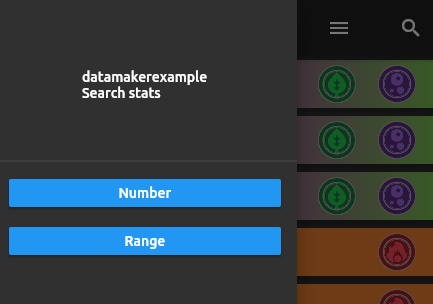
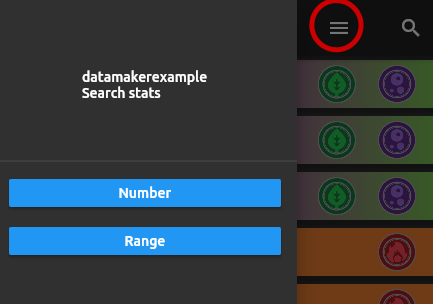
readme.md file version 1

Changed region(s): [[0.6905, 0.0, 0.8406, 0.1776]]

diff --git a/lib/src/gui/dataDetailView.dart b/lib/src/gui/dataDetailView.dart
@@ -267,7 +267,7 @@ class _DataDetailViewState extends State<DataDetailView> {
               border: TableBorder.all(color: Colors.white),
               children: _movesRows(pkm.tmMoves.map((e) => [e]).toList()),
             ),
-            Text("Bredding:"),
+            Text("Breeding:"),
             Table(
                 columnWidths: {
                   0: FlexColumnWidth(3),

diff --git a/README.md b/README.md
@@ -1,9 +1,108 @@
-# DataMaker
+#### DataMaker
 
 An app for get information from Pokemon fan games made in RPG Maker.
 
 ![Main view](/images/mainview.png)
-Format: ![Alt Text](url)
 
-## Getting Started
+### Getting Started
+## Create the game data
+To create a new file from a game there are two options:
+
+Open the game folder or open a file created by the app itself
+(firts and second buttons respectively).
+![buttons](/images/buttons.png)
+
+# Open a game folder
+Tap the first button (New from game folder).
+Select the folder that contains the game files 
+(the folder which containt the game.exe file).
+
+![Opengamefolder](/images/openfolder.png)
+
+# Open a file generated by the app (a .dmjson file)
+
+First you have to create that file selecting the option "copy" from the a 
+card generated by the first option.
+
+![Card](/images/card.png)
+
+And then the app will copy the .dmjson file that contains all the game data
+in a json format.
+
+![Copy](/images/copied.png)
+
+Then tap the second button (New from file) and select the .dmjson file
+![Openfilegame](/images/openfile.png)
+
+## See the information
+To open the data from a game just tap the card generated.
+
+![Data view](/images/dataview.png)
+
+And then tap a pokemon to see the data.
+
+# Data page
+![datadetail](/images/detailview.png)
+It contains the number, name, types, abilities, type charts, 
+stats, locations and other useful data.
+
+![data1](/images/datadetailview.png)
+
+![data2](/images/datadetailview2.png)
+
+If you want to know what an ability does just tap the text.
+
+![ability](/images/abilities.png)
+
+# Evolutions page
+
+To see the evolutions that the pokemon has tap the "Evols" button at the
+bottom of the window (You can also tap an evolution to go to its data).
+
+![evols](/images/evols.png)
+
+# Moves
+To know which moves the pokemon learns tap the "Moves" button at the
+bottom of the window.
+It will show you the moves that learns through level up, tms or breeding.
+
+![moves](/images/moves1.png)
+![moves](/images/moves2.png)
+![moves](/images/moves3.png)
+
+To see de description of the move tap the text or the blue button.
+
+![movedescription](/images/movesdescription.png)
+
+## Searching
+# Search a pokemon
+You can use the search button at the top of the window to search a pokemon
+by their name (it also shows the pokemon that contains the name searched in their
+evolutions page).
+
+![searchname](/images/searchname.png)
+
+Or you can search all the pokemon that has a type.
+
+![searchtype](/images/searchtypes.png)
+
+# Searching stats
+Just tap the three lines button or drag the left side of the window to
+the right side to show the options.
+
+![searchstats](/images/searchstats.png)
+
+You can also search a pokemon that has an specific total of stats or
+set a range.
+
+![range1](/images/range1.png)
+![range1](/images/range2.png)
+
+## Custom things
+The app will try to get the icons of the custom pokemon but if it
+can't get them just will show an interrogation icon
+
+![unknow](/images/unknow.png)
+
+
 
